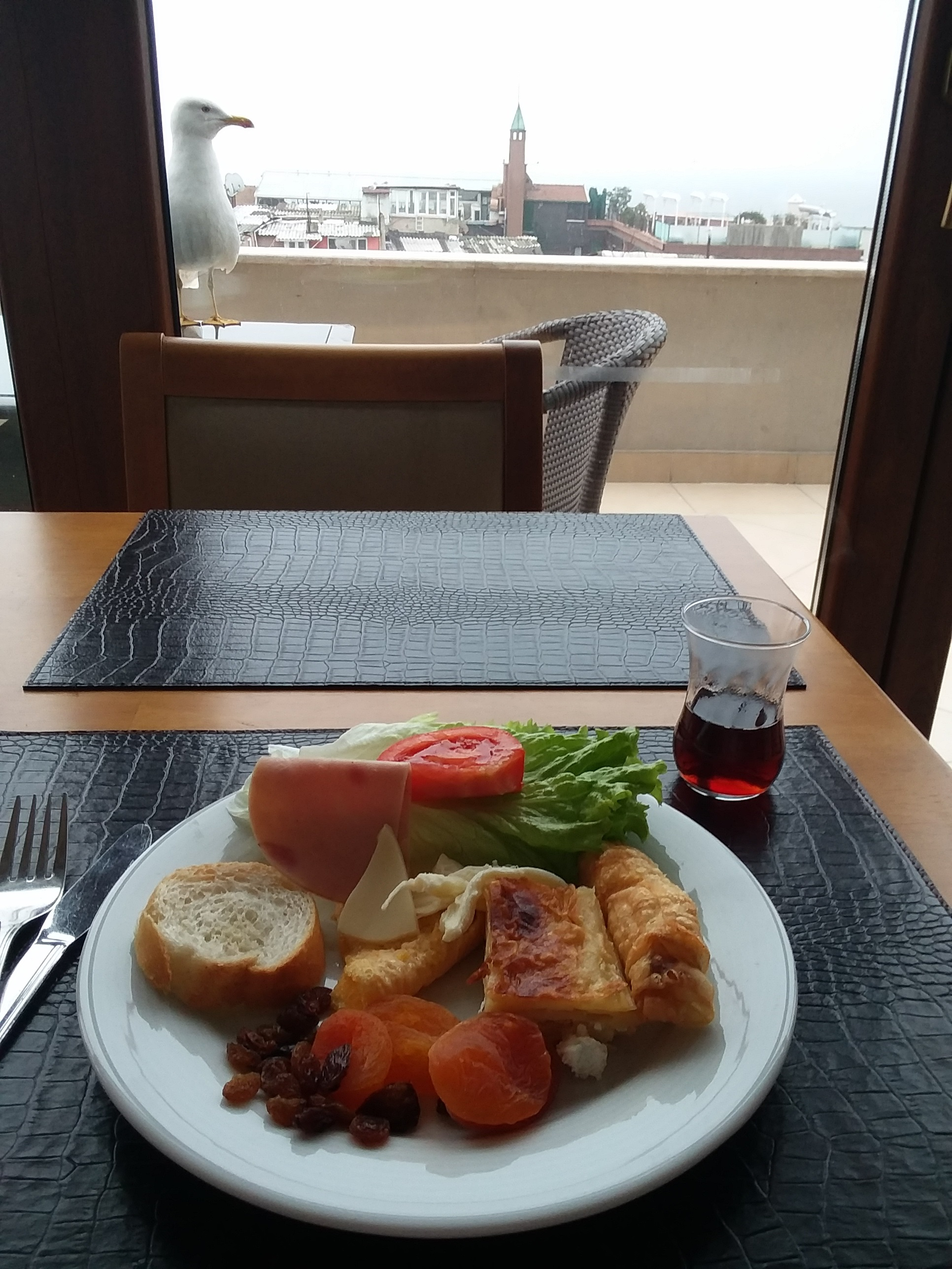
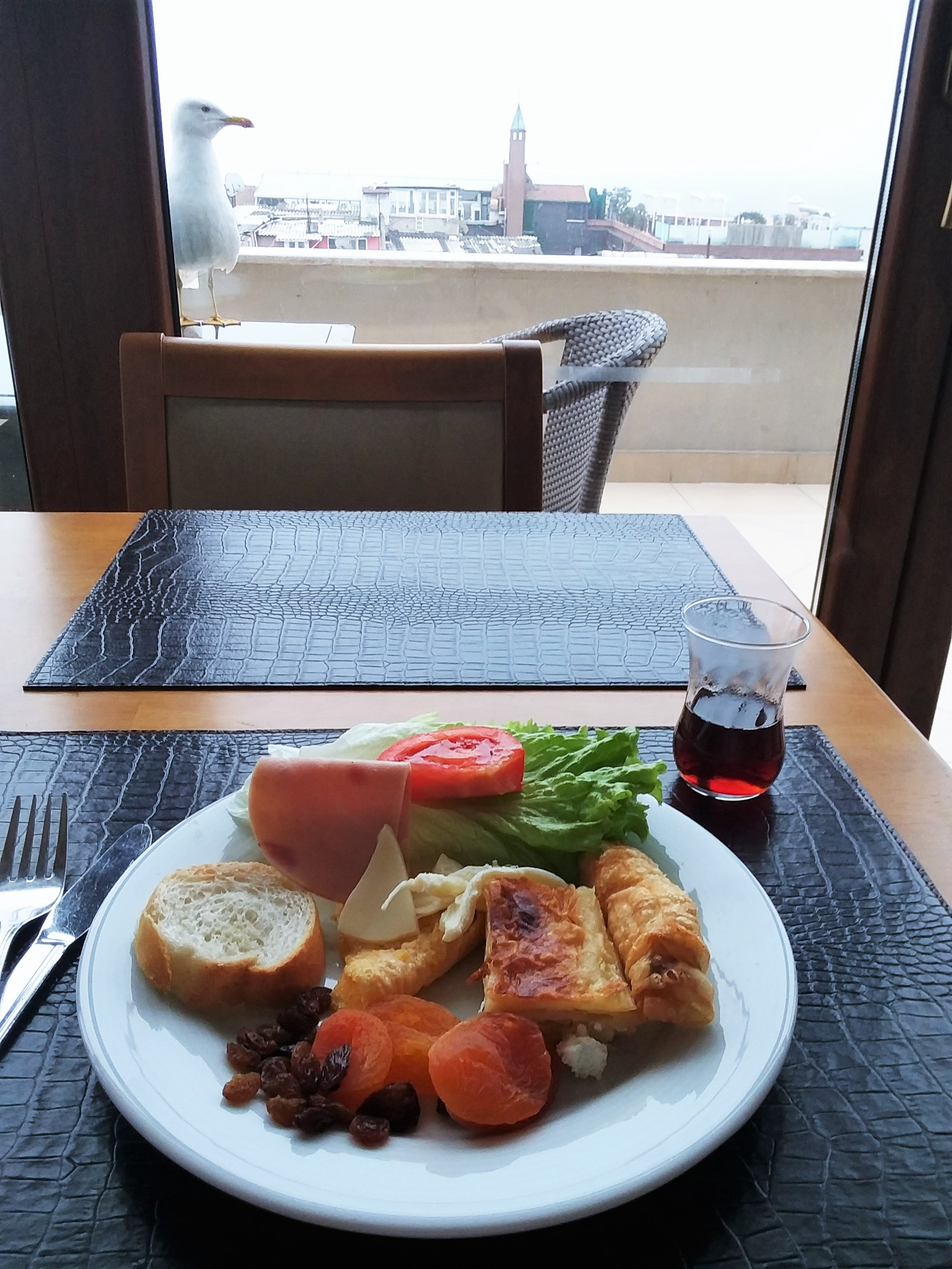
updated pictures

diff --git a/photography.html b/photography.html
@@ -47,7 +47,7 @@
 
 		<div class="gallery">
 			<a target="_blank" href="Turkish Breakfast.jpg">
-				<img src="Turkish Breakfast.jpg" width="400" height="500" alt="Turkish breakfast" align="left" />
+				<img src="Turkish Breakfast.jpg" width="362" height="483" alt="Turkish breakfast" align="left" />
 			</a>
 			<!div class="desc"Add a description /div>
 		</div>
@@ -148,7 +148,7 @@
 
 		<div class="gallery">
 			<a target="_blank" href="Sea Gate 2.jpg">
-				<img src="Sea Gate 2.jpg" width="500" height="300" alt="Palace grounds" align="center" />
+				<img src="Sea Gate 2.jpg" width="362" height="483" alt="Palace grounds" align="center" />
 			</a>
 			<!div class="desc"Add a description /div>
 		</div>
